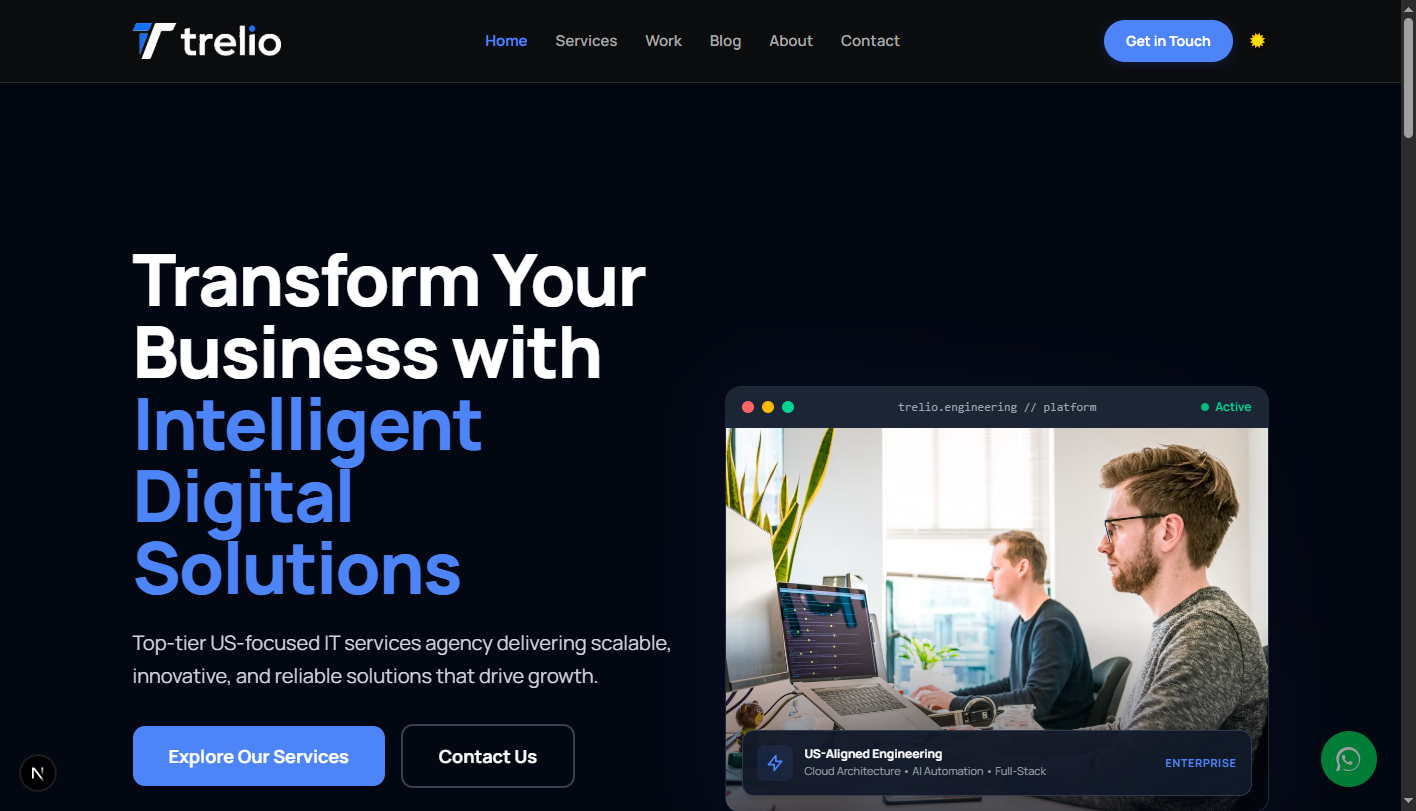
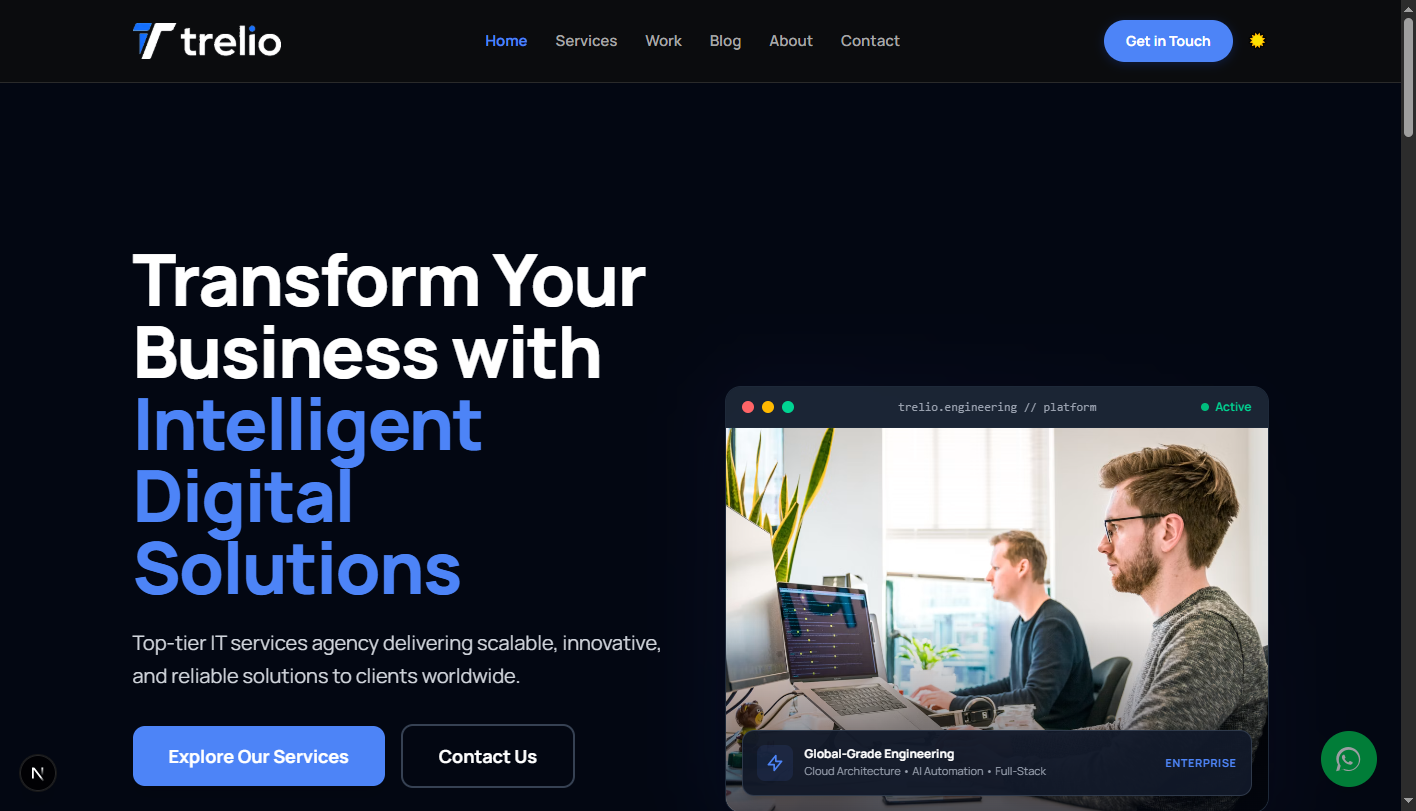
Add international positioning copy and live-data stats for projects and clients

Changed region(s): [[0.0932, 0.7707, 0.4661, 0.8631], [0.5593, 0.9248, 0.6836, 0.9556]]

diff --git a/app/page.tsx b/app/page.tsx
@@ -12,11 +12,21 @@ export const metadata: Metadata = {
 
 export default async function HomePage() {
   const supabase = await createClient();
-  const { data: featuredProjects } = await supabase
-    .from('gallery')
-    .select('*')
-    .order('sort_order')
-    .limit(3);
+  const [{ data: featuredProjects }, { count: galleryCount }] = await Promise.all([
+    supabase
+      .from('gallery')
+      .select('*')
+      .order('sort_order')
+      .limit(3),
+    supabase
+      .from('gallery')
+      .select('*', { count: 'exact', head: true })
+  ]);
+
+  const projectsDelivered = galleryCount ?? 0;
+  const happyClients = projectsDelivered > 0 
+    ? (projectsDelivered > 2 ? Math.round(projectsDelivered * 0.9) : Math.max(1, projectsDelivered - 1))
+    : 0;
 
   return (
     <main className="flex flex-col min-h-screen bg-white dark:bg-gray-950 text-gray-900 dark:text-white">
@@ -29,7 +39,7 @@ export default async function HomePage() {
                 Transform Your Business with <span className="text-[var(--blue)]">Intelligent Digital Solutions</span>
               </h1>
               <p className="text-xl text-gray-600 dark:text-gray-300 mb-8 max-w-2xl mx-auto lg:mx-0 leading-relaxed">
-                Top-tier US-focused IT services agency delivering scalable, innovative, and reliable solutions that drive growth.
+                Top-tier IT services agency delivering scalable, innovative, and reliable solutions to clients worldwide.
               </p>
               <div className="flex flex-col sm:flex-row items-center justify-center lg:justify-start gap-4 mb-14">
                 <Link 
@@ -49,8 +59,8 @@ export default async function HomePage() {
               </div>
               <div className="grid grid-cols-2 sm:grid-cols-4 gap-6 pt-8 border-t border-gray-200 dark:border-gray-800">
                 {[
-                  { value: '150+', label: 'Projects Delivered' },
-                  { value: '50+', label: 'Happy Clients' },
+                  { value: `${projectsDelivered}`, label: 'Projects Delivered' },
+                  { value: `${happyClients}`, label: 'Happy Clients' },
                   { value: '8', label: 'Core Services' },
                   { value: '99.9%', label: 'Uptime' }
                 ].map((stat, i) => (
@@ -104,7 +114,7 @@ export default async function HomePage() {
                         </svg>
                       </div>
                       <div>
-                        <div className="text-xs font-bold text-gray-900 dark:text-white">US-Aligned Engineering</div>
+                        <div className="text-xs font-bold text-gray-900 dark:text-white">Global-Grade Engineering</div>
                         <div className="text-[11px] text-gray-500 dark:text-gray-400">Cloud Architecture • AI Automation • Full-Stack</div>
                       </div>
                     </div>
@@ -191,15 +201,15 @@ export default async function HomePage() {
               Why Trelio?
             </h2>
             <p className="text-lg text-gray-600 dark:text-gray-300 max-w-2xl mx-auto leading-relaxed">
-              We operate as your dedicated engineering and marketing wing with transparent US-aligned execution.
+              We operate as your dedicated engineering and marketing wing with seamless remote execution across global time zones.
             </p>
           </ScrollReveal>
 
           <div className="grid grid-cols-1 md:grid-cols-2 lg:grid-cols-4 gap-8">
             {[
               { 
-                title: 'US-Based Execution', 
-                desc: 'Direct, clear communication aligned with your working hours and time zones.',
+                title: 'Remote-First Execution', 
+                desc: 'Seamless collaboration and flexible communication aligned with your working hours across global time zones.',
                 icon: (
                   <svg className="w-6 h-6 text-[var(--blue)]" fill="none" viewBox="0 0 24 24" stroke="currentColor">
                     <path strokeLinecap="round" strokeLinejoin="round" strokeWidth={2} d="M3.055 11H5a2 2 0 012 2v1a2 2 0 002 2 2 2 0 012 2v2.945M8 3.935V5.5A2.5 2.5 0 0010.5 8h.5a2 2 0 012 2 2 2 0 104 0 2 2 0 012-2h1.064M15 20.488V18a2 2 0 012-2h3.064M21 12a9 9 0 11-18 0 9 9 0 0118 0z" />

diff --git a/scratch/capture_about_contact.js b/scratch/capture_about_contact.js
@@ -1,0 +1,100 @@
+const { spawn } = require('child_process');
+const http = require('http');
+const fs = require('fs');
+const path = require('path');
+
+const edgePath = 'C:\\Program Files (x86)\\Microsoft\\Edge\\Application\\msedge.exe';
+const outDir = path.resolve(__dirname, 'screenshots');
+
+async function capture() {
+  const edge = spawn(edgePath, [
+    '--headless=new',
+    '--remote-debugging-port=9222',
+    '--no-sandbox',
+    '--window-size=1440,950'
+  ]);
+
+  await new Promise(r => setTimeout(r, 1500));
+
+  function getPageTarget() {
+    return new Promise((resolve) => {
+      function check() {
+        http.get('http://127.0.0.1:9222/json', (res) => {
+          let raw = '';
+          res.on('data', c => raw += c);
+          res.on('end', () => {
+            try {
+              const targets = JSON.parse(raw);
+              const p = targets.find(t => t.type === 'page');
+              if (p) return resolve(p);
+            } catch(e){}
+            setTimeout(check, 300);
+          });
+        }).on('error', () => setTimeout(check, 300));
+      }
+      check();
+    });
+  }
+
+  const pageTarget = await getPageTarget();
+  const ws = new WebSocket(pageTarget.webSocketDebuggerUrl);
+  await new Promise(r => ws.onopen = r);
+
+  let idCounter = 500;
+  function sendCommand(method, params = {}) {
+    return new Promise((resolve) => {
+      const id = ++idCounter;
+      function handler(event) {
+        const msg = JSON.parse(event.data);
+        if (msg.id === id) {
+          ws.removeEventListener('message', handler);
+          resolve(msg.result);
+        }
+      }
+      ws.addEventListener('message', handler);
+      ws.send(JSON.stringify({ id, method, params }));
+    });
+  }
+
+  await sendCommand('Page.enable');
+  await sendCommand('DOM.enable');
+
+  const pages = ['about', 'contact'];
+
+  for (const p of pages) {
+    console.log(`Capturing ${p}...`);
+    const url = `http://localhost:3000/${p}`;
+    await sendCommand('Page.navigate', { url });
+    await new Promise(r => setTimeout(r, 2500));
+
+    await sendCommand('Runtime.evaluate', {
+      awaitPromise: true,
+      expression: `(async () => {
+        const step = 350;
+        for (let y = 0; y < document.body.scrollHeight + 500; y += step) {
+          window.scrollTo(0, y);
+          await new Promise(r => setTimeout(r, 70));
+        }
+        window.scrollTo(0, 0);
+        await new Promise(r => setTimeout(r, 500));
+      })()`
+    });
+
+    const fullRes = await sendCommand('Page.captureScreenshot', {
+      format: 'png',
+      captureBeyondViewport: true
+    });
+    if (fullRes && fullRes.data) {
+      const fullBuf = Buffer.from(fullRes.data, 'base64');
+      const filename = path.join(outDir, `${p}_final.png`);
+      fs.writeFileSync(filename, fullBuf);
+      console.log(`Saved ${filename} (${fullBuf.length} bytes)`);
+    }
+  }
+
+  ws.close();
+  edge.kill();
+  console.log('ABOUT & CONTACT CAPTURES COMPLETE!');
+}
+
+capture().catch(console.error);

diff --git a/app/about/page.tsx b/app/about/page.tsx
@@ -49,7 +49,7 @@ export default function AboutPage() {
               About Trelio
             </h1>
             <p className="text-lg sm:text-xl text-gray-600 dark:text-gray-300 leading-relaxed">
-              We are a premier IT services agency based in the United States, dedicated to helping businesses scale and innovate through cutting-edge technology and data-backed digital marketing.
+              We are a premier IT services agency serving forward-thinking businesses worldwide, dedicated to scaling and innovating through cutting-edge technology and data-backed digital marketing.
             </p>
           </div>
         </ScrollReveal>
@@ -67,7 +67,7 @@ export default function AboutPage() {
                 <h2 className="text-3xl sm:text-4xl font-extrabold text-gray-900 dark:text-white mt-2 mb-6">Our Story</h2>
                 <div className="space-y-6 text-base sm:text-lg text-gray-600 dark:text-gray-300 leading-relaxed">
                   <p>
-                    Trelio was founded with a singular vision: to bridge the gap between complex technological challenges and elegant, scalable business solutions. We recognized that businesses across the US needed more than just vendors—they needed strategic technology partners.
+                    Trelio was founded with a singular vision: to bridge the gap between complex technological challenges and elegant, scalable business solutions. We recognized that growing businesses worldwide needed more than just vendors—they needed strategic technology partners.
                   </p>
                   <p>
                     Since our inception, we have been committed to delivering excellence in software development, cloud architecture, and digital growth. Our approach combines deep technical expertise with a profound understanding of modern business dynamics.

diff --git a/scratch/check_count.js b/scratch/check_count.js
@@ -1,0 +1,29 @@
+const fs = require('fs');
+const envText = fs.readFileSync('.env.local', 'utf8');
+const env = {};
+for (const line of envText.split('\n')) {
+  const trimmed = line.trim();
+  if (!trimmed || trimmed.startsWith('#')) continue;
+  const idx = trimmed.indexOf('=');
+  if (idx !== -1) {
+    const key = trimmed.slice(0, idx).trim();
+    let val = trimmed.slice(idx + 1).trim();
+    if ((val.startsWith('"') && val.endsWith('"')) || (val.startsWith("'") && val.endsWith("'"))) {
+      val = val.slice(1, -1);
+    }
+    env[key] = val;
+  }
+}
+
+const { createClient } = require('@supabase/supabase-js');
+const supabase = createClient(env.NEXT_PUBLIC_SUPABASE_URL, env.SUPABASE_SERVICE_ROLE_KEY);
+
+async function run() {
+  const { data, count, error } = await supabase.from('gallery').select('*', { count: 'exact' });
+  console.log('With service role key:');
+  console.log('Count:', count);
+  console.log('Data:', data ? data.length : null);
+  console.log('Error:', error);
+}
+
+run();

diff --git a/scratch/check_schema.js b/scratch/check_schema.js
@@ -1,0 +1,28 @@
+const fs = require('fs');
+const envText = fs.readFileSync('.env.local', 'utf8');
+const env = {};
+for (const line of envText.split('\n')) {
+  const trimmed = line.trim();
+  if (!trimmed || trimmed.startsWith('#')) continue;
+  const idx = trimmed.indexOf('=');
+  if (idx !== -1) {
+    const key = trimmed.slice(0, idx).trim();
+    let val = trimmed.slice(idx + 1).trim();
+    if ((val.startsWith('"') && val.endsWith('"')) || (val.startsWith("'") && val.endsWith("'"))) {
+      val = val.slice(1, -1);
+    }
+    env[key] = val;
+  }
+}
+
+const { createClient } = require('@supabase/supabase-js');
+const s = createClient(env.NEXT_PUBLIC_SUPABASE_URL, env.SUPABASE_SERVICE_ROLE_KEY);
+
+async function q() {
+  const { data: sites } = await s.from('sites').select('*').limit(2);
+  console.log('Sites sample:', sites);
+  const { data: site_requests } = await s.from('site_requests').select('*').limit(2);
+  console.log('Site requests sample:', site_requests);
+}
+
+q();

diff --git a/app/contact/page.tsx b/app/contact/page.tsx
@@ -71,7 +71,7 @@ export default function ContactPage() {
                   </div>
                   <div>
                     <h3 className="text-sm font-bold uppercase tracking-wider text-gray-400 dark:text-gray-500">Location</h3>
-                    <p className="text-base font-semibold text-gray-900 dark:text-white">United States (Remote-First)</p>
+                    <p className="text-base font-semibold text-gray-900 dark:text-white">Worldwide (Remote-First)</p>
                   </div>
                 </div>
 

diff --git a/app/layout.tsx b/app/layout.tsx
@@ -121,7 +121,7 @@ export default function RootLayout({
                 <h3 className="font-bold mb-4 tracking-tight" style={{ color: 'var(--fg)' }}>Contact</h3>
                 <ul className="flex flex-col gap-3 text-sm" style={{ color: 'var(--gray)' }}>
                   <li>hello@trelio.tech</li>
-                  <li>United States</li>
+                  <li>Serving clients worldwide</li>
                 </ul>
               </div>
             </div>
